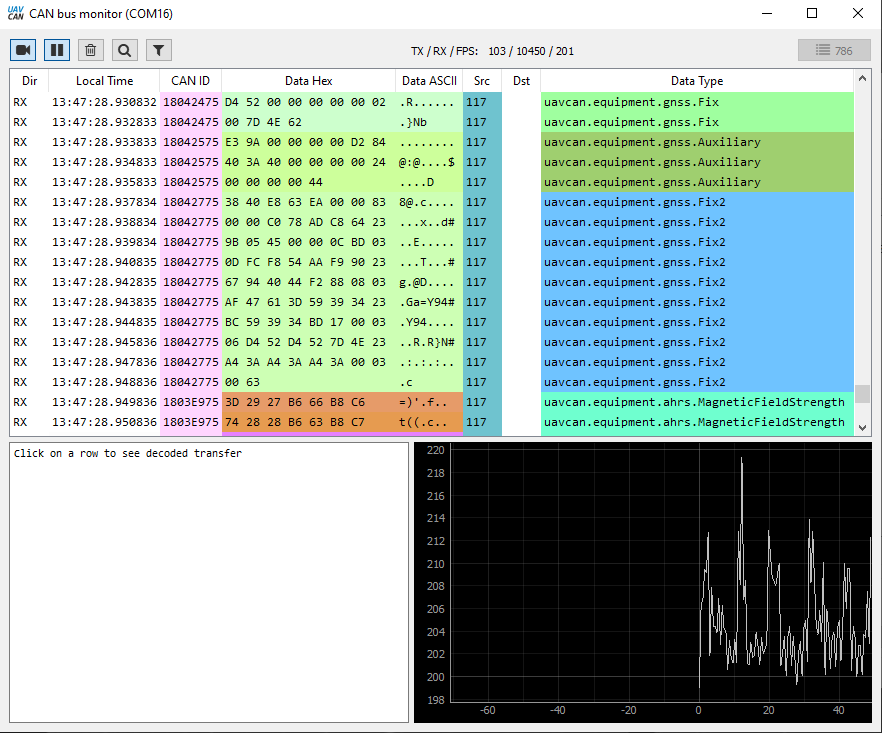
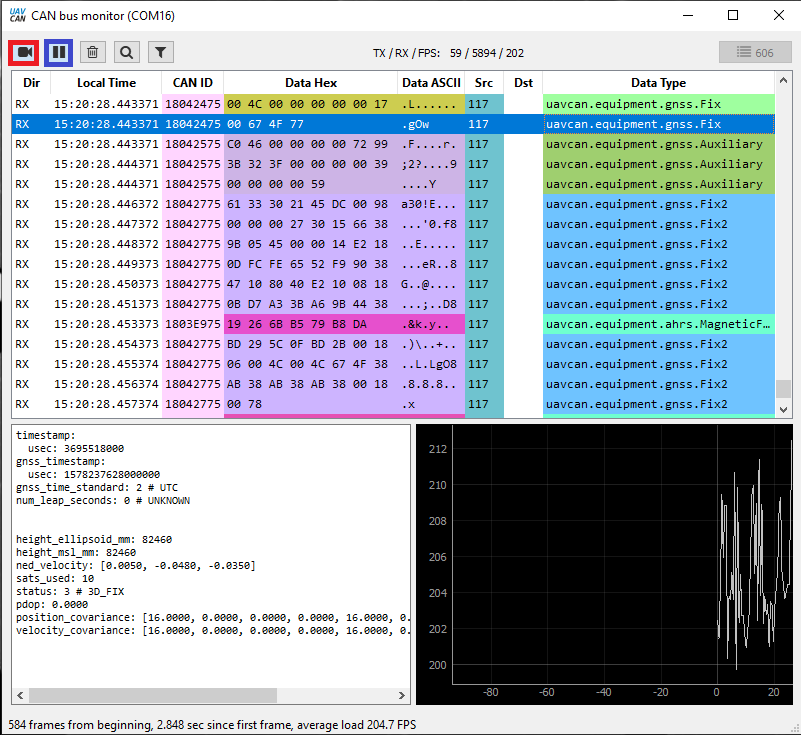
WIP 4 Blue-Pill Readme

diff --git a/Blue-Pill_STM32F103/README.md b/Blue-Pill_STM32F103/README.md
@@ -10,17 +10,19 @@
 
  ###### Note: Blue-Pills come with 64Kb or 128Kb, Firmware on this Repo will only work for boards with 128Kb i bought two one had 128Kb and the other had 64Kb.
 
- ###### If your FTDI device has an earlier 2102 SILABS chip on it then it will need to be repogrammed to support 1000000Bps as this baud rate is needed to connect the Blue-Pill to UAVCAN_gui_tool. Follow this link written by [OlliW](https://www.rcgroups.com/forums/showpost.php?p=38571959&postcount=224).
+ ###### If your FTDI device has an earlier 2102 SILABS chip on it then it will need to be reprogrammed to support 1000000Bps as this baud rate is needed to connect the Blue-Pill to UAVCAN_gui_tool. Follow this link written by [OlliW](https://www.rcgroups.com/forums/showpost.php?p=38571959&postcount=224).
 
 First you need to flash the bootloader to the blue-pill. The right hand jumper needs to be moved to cover the lower pins, this will put the board in bootloader mode. Then make the connections to the blue-pill copying the Uart connections of the GPS in the image above (remove GPS and Connect FTDI), to your FTDI device. Once connected upload the [Bootloader](/Blue-Pill_STM32F103/Binaries/f103-GPS-Blue_bl.bin), using [Flasher-STM32](https://www.st.com/en/development-tools/flasher-stm32.html) or this one because it does everything DFU, Uart, SPI etc [STM32CubeProg](https://www.st.com/en/development-tools/stm32cubeprog.html), the latter does not report the size of flash on the Blue-Pill the "Flasher-STM32" will.
 
-After the bootloader is flashed the board can be connected to the autopilot canbus & GPS connections following the above image (the gps is auto configuring).  If I2C is not used then connect the B8 to 3.3v pin on Blue-Pill otherwise the reset button will have to be pressed every time the board is booted.
+ ###### Help images are available here for [STM-Flasher]
 
-Download [UAVCAN_gui_tool](https://uavcan.org/GUI_Tool/Overview/) and install it, this is how the Firmware gets uploaded to the board with bootloader already installed.
+After the bootloader is flashed the Blue-Pill can be connected to the autopilot CANBUS, GPS & Mag following the above image (the GPS is auto configuring).  If I2C is not used then connect the B6 to 3.3v pin on Blue-Pill otherwise the reset button will have to be pressed every time the board is booted.
+
+Download [UAVCAN_gui_tool](https://uavcan.org/GUI_Tool/Overview/) and install it, this is how the Firmware will be uploaded to the board with bootloader already installed.
 
  ## Mission Planner
 
- Connect your flight controller to MP. Navigate to Config/Tuning tab and Full Parameter Tree. In the box on left side type "CAN" this will bring up all the CAN parameters.
+ Connect your flight controller to MP. Navigate to Config tab and Full Parameter Tree. In the search box on Right side type "CAN" this will bring up all the CAN parameters.
  Set the parameters as follows.
 
  ![QNU](/Blue-Pill_STM32F103/Images/MP_CAN_1.png)
@@ -29,11 +31,13 @@ Download [UAVCAN_gui_tool](https://uavcan.org/GUI_Tool/Overview/) and install it
 
  ![QNU](/Blue-Pill_STM32F103/Images/MP_CAN_2.png)
 
- To put the board into SLCAN mode (CANBUS Pass through) set the the "CAN_SLCAN_SERNUM" to zero.
+ To put the autopilot into SLCAN mode (CANBUS Pass through) set the the "CAN_SLCAN_SERNUM" to zero.
 
  ![QNU](/Blue-Pill_STM32F103/Images/MP_CAN_3.png)
 
- Once write parameters has been pressed it will fail to set, this means it  has gone into SLCAN mode which is correct, if MP reports it as set then reboot and do it again.
+ Once write parameters has been pressed it will fail to set, this means it has gone into SLCAN mode which is correct, if MP reports it as set then try again. This can be a bit flaky, QGroundControl seems to work better at setting the zero.
+
+ ## UAVCAN_GUI
 
  Start UAVCAN_gui_tool, set the baud rate.
 
@@ -41,24 +45,62 @@ Download [UAVCAN_gui_tool](https://uavcan.org/GUI_Tool/Overview/) and install it
 
  and press OK.
 
- UAVCAN_gui_tool will start with an interface that looks like the image below.  Press on the Tick. Leave the node address unless you have another on the Bus with the same number. The Blue-Pill is in maintenance mode, Firmware needs to be uploaded.
+ UAVCAN_gui_tool will start with an interface that looks like the image below.  Press on the tick. Leave the node address unless you have another on the Bus with the same number. The Blue-Pill is in maintenance mode, Firmware needs to be uploaded.
 
- ![QNU](/Blue-Pill_STM32F103/Images/CAN_GUI_2.png)
+  ![QNU](/Blue-Pill_STM32F103/Images/CAN_GUI_2.png)
 
- Now press on the button highlighted bottom right. Then double click on the org.ardupilot.ap_periph, again highlighted red. Another window will appear.
+ Press on the button highlighted bottom right. Then double click on the org.ardupilot.ap_periph, again highlighted. Another window will appear.
 
- ![QNU](/Blue-Pill_STM32F103/Images/CAN_GUI_3.png)
+  ![QNU](/Blue-Pill_STM32F103/Images/CAN_GUI_3.png)
 
  Click on update Firmware button and upload this [Firmware](/Blue-Pill_STM32F103/Binaries/f103-GPS-Blue.bin)
 
- ![QNU](/Blue-Pill_STM32F103/Images/CAN_GUI_4.png)
+  ![QNU](/Blue-Pill_STM32F103/Images/CAN_GUI_4.png)
 
  You will get the following Screens
 
- ![QNU](/Blue-Pill_STM32F103/Images/CAN_GUI_5.png)
+  ![QNU](/Blue-Pill_STM32F103/Images/CAN_GUI_5.png)
 
- ![QNU](/Blue-Pill_STM32F103/Images/CAN_GUI_6.png)
+  ![QNU](/Blue-Pill_STM32F103/Images/CAN_GUI_6.png)
 
  Wait until Main window has changed to
 
- ![QNU](/Blue-Pill_STM32F103/Images/CAN_GUI_7.png)
+  ![QNU](/Blue-Pill_STM32F103/Images/CAN_GUI_7.png)
+
+ The Node is now operational and running, Press the fetch all button.
+
+  ![QNU](/Blue-Pill_STM32F103/Images/CAN_GUI_8.png)
+
+  The window will populate. Double click on the Highlighted FLASH_BOOTLOADER, enter a value of "1" press send and close the window. I'm unsure at the moment if this step actually needs to be taken.
+
+ ![QNU](/Blue-Pill_STM32F103/Images/CAN_GUI_SWUPD_1.png)
+
+ The debug window should look like this.
+
+  ![QNU](/Blue-Pill_STM32F103/Images/CAN_GUI_SWUPD_2.png)
+
+ Checks can be made with Bus Monitor to see if the correct messages are coming through.
+
+  ![QNU](/Blue-Pill_STM32F103/Images/CAN_GUI_SWUPD_3.png)
+
+  A window will open, click on highlighted red then to pause the feed click blue. Highlight any line to see the message.
+
+ ![QNU](/Blue-Pill_STM32F103/Images/CAN_GUI_SWUPD_4.png)
+
+ Close down UAVCAN_gui_tool and reboot flight controller (power down).
+
+  ## Mission Planner
+
+  Open up mission planner and Navigate to Config/Full Parameter Tree. Type in the right hand box "GPS_Type" set to 9 and write parameters.
+
+  ![QNU](/Blue-Pill_STM32F103/Images/MP_GPS.png)
+
+  Navigate to Initial setup/compass because my board has an on board mag i set the second for external. Reboot (power down).
+
+  ![QNU](/Blue-Pill_STM32F103/Images/MP_MAG.png)
+
+  Reconnect if all has gone sucssefully then the status window in mission planner should be as follows.
+
+  ![QNU](/Blue-Pill_STM32F103/Images/MP_Status.png)
+
+Hope this helps anyone that wants to add a DIY node to Ardupilot.
